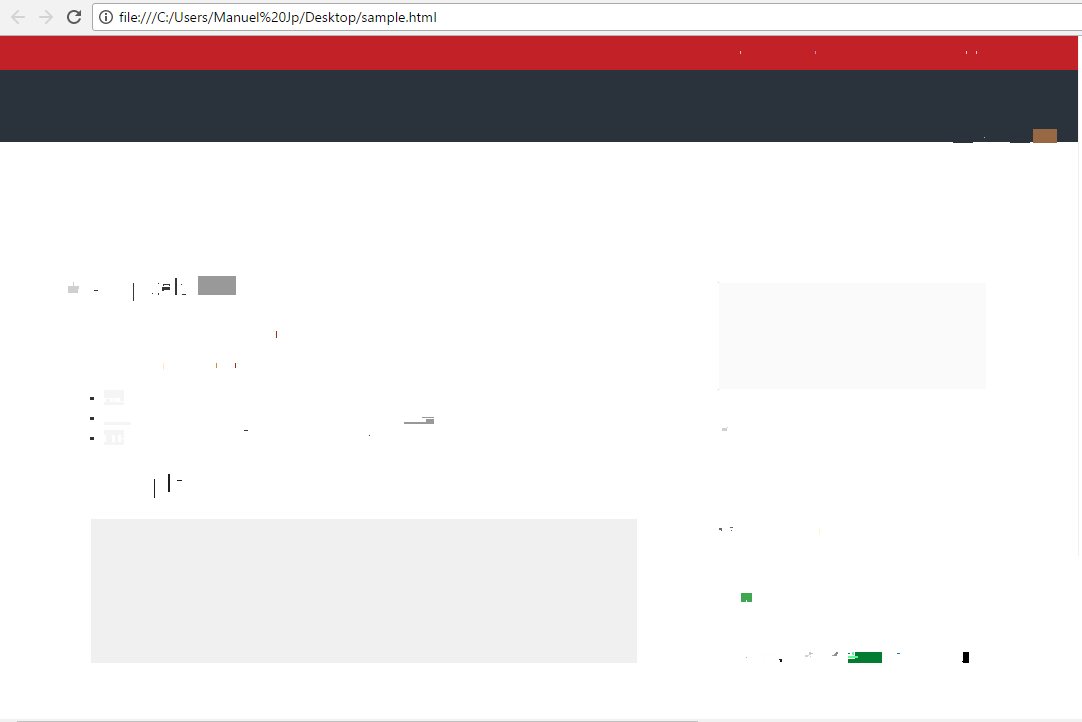
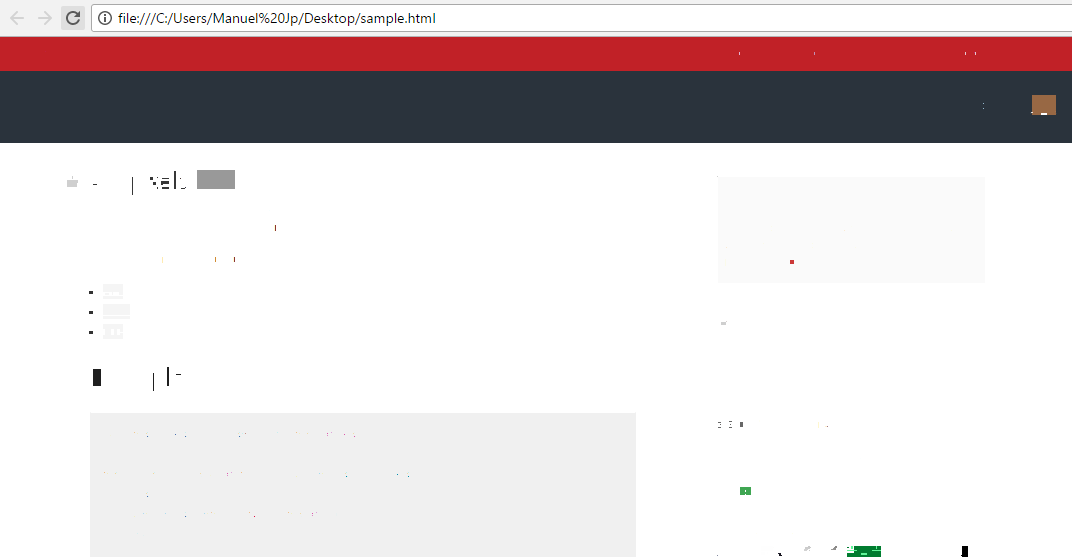
update left and top calculation

diff --git a/src/renderer/html/render.js b/src/renderer/html/render.js
@@ -5,17 +5,21 @@ export class HtmlRenderer {
     return `<html>
       <head></head>
       <body>
-      ${objects.map(object => this.html(object)).join('\n')}
+      ${objects.map(object => this.html(object)).join('')}
       </body>
     </html>`
   }
 
-  html = (object) => {
+  html = (object, parent) => {
     if(object.type !== 1) return '';
     const formfactor = object.formfactor;
-    const left = formfactor.left
+    let left = formfactor.left
     const right = formfactor.right
-    const top = formfactor.top;
+    let top = formfactor.top;
+    if(parent) {
+      top -= parent.formfactor.top;
+      left-= parent.formfactor.left;
+    }
     const width = formfactor.right - formfactor.left;
     const height = formfactor.bottom - formfactor.top;
     const color = formfactor.primaryColor;
@@ -23,10 +27,8 @@ export class HtmlRenderer {
     const g = color[1];
     const b = color[2];
     const a = color[3];
-    return `<div style="position:absolute; width:${width}; height:${height}; background-color:rgba(${r},${g},${b},${a}); left:${left}; top:${top}">
-      ${(object.siblings || []).map(element => this.html(element)).join('')}
-    </div>
-    `
+    return `<div style="position:absolute; width:${width}; height:${height}; background-color:rgba(${r},${g},${b},${a}); left:${left}; top:${top}">${(object.siblings || []).map(element => this.html(element,object)).filter(item => item!==undefined).join('\n')}
+    </div>`
   }
 
 }

diff --git a/src/image-processor/hierarchy-generator.js b/src/image-processor/hierarchy-generator.js
@@ -30,10 +30,9 @@ export class HierarchyGenerator {
 
   nodeFromFormFactor = (element, siblings) => {
     return {
-      type: (element.percent() > 0.5 ? 1 : 0),
+      type: ((element.percent() > 0.4) ? 1 : 0),
       siblings: siblings,
       formfactor: element
     };
   }
-
 }
